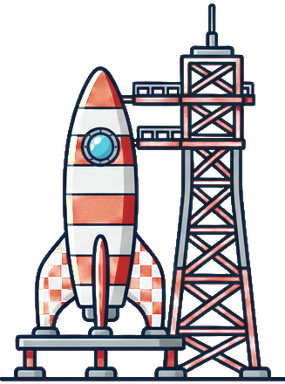
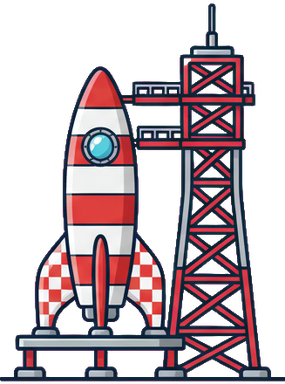
Nature round 2: willows, birches, acacias, baobabs, apple trees and five plants; a keyer that keeps colours
Two sheets made with the asset pipeline (jobs trees2, plants2): trees-5..9
(weeping willow, white birch, acacia, baobab, apple) and bushes-5..9
(sunflowers, cactus, reeds, mossy stump, fern). They join the biome lists:
acacias, baobabs, cacti and sunflowers turn the savanna into savanna,
birches fill the alpine and lakeland woods, apples and sunflowers the
meadows, ferns and stumps the undergrowth. Willows lean over the lakes and
reeds fringe lakes and rivers (their own random stream). The kerbside verge
keeps its five bushes (same picks as before), so no reeds or cacti by the curb.

key.py: only pixels that closely match the background become transparent
anywhere; softer matches fade only along its rim. The dusty-rose backgrounds
the model paints had been fading reds and browns inside the outlines (a teal
baobab, purple apples, a quarter-transparent autumn tree). Every sheet from
this pipeline is re-keyed: soft-edged pixels drop from up to 23% to under 1%.

Also: the 'no faces' rule, honest comments about random streams.

diff --git a/public/world.js b/public/world.js
@@ -28,7 +28,7 @@
  */
 
 // How many sprites each sheet was split into (see tools/ — assets are static).
-export const SPRITE_COUNTS = { clouds: 4, trees: 5, bushes: 5, props: 6, houses: 6, landmarks: 5, lots: 4, roofs: 4 };
+export const SPRITE_COUNTS = { clouds: 4, trees: 10, bushes: 10, props: 6, houses: 6, landmarks: 5, lots: 4, roofs: 4 };
 export const PROP = { LAMP: 0, BENCH: 1, HYDRANT: 2, MAILBOX: 3, CART: 4, BUS_STOP: 5 };
 export const LANDMARK = { BALLOON: 0, LIGHTHOUSE: 1, WINDMILL: 2, FERRIS: 3, ROCKET: 4 };
 // Attraction sites buildLand() reserves before the terrain: the ground each
@@ -55,8 +55,10 @@ export const LANDMARK_SITES = {
   recordShop: ['fair2', 'fair', 'bigFair'],
   robotMonument: ['wild', 'slopes'],
 };
-const TREE = { OAK: 0, POPLAR: 1, PINE: 2, ROUND: 3, CHERRY: 4 };
-const BUSH = { ROUND: 0, TULIPS: 1, LEAFY: 2, GRASS: 3, TOPIARY: 4 };
+const TREE = { OAK: 0, POPLAR: 1, PINE: 2, ROUND: 3, CHERRY: 4, WILLOW: 5, BIRCH: 6, ACACIA: 7, BAOBAB: 8, APPLE: 9 };
+const BUSH = { ROUND: 0, TULIPS: 1, LEAFY: 2, GRASS: 3, TOPIARY: 4, SUNFLOWERS: 5, CACTUS: 6, REEDS: 7, STUMP: 8, FERN: 9 };
+// The kerbside verge by the city block (willows and reeds grow by the water, below).
+const VERGE_BUSHES = [BUSH.ROUND, BUSH.TULIPS, BUSH.LEAFY, BUSH.GRASS, BUSH.TOPIARY];
 
 // Biomes: ground palette, relief, woods, water. Tree/bush lists are sprite
 // indices, repeated to weight the pick.
@@ -65,31 +67,35 @@ export const BIOMES = {
     label: 'Meadow isle',
     pal: { meadow: 0x8cda44, meadowLight: 0xacfa5d, forest: 0x5fb13c, highland: 0x7dbb62, rock: 0xb8ae9a, sand: 0xf1dfae, wetSand: 0xd6bd86 },
     relief: 15, mound: 1, forestT: 0.56, lakes: 1, river: true, beach: 1, shallow: 0x9af5e6, snow: 0,
-    trees: [TREE.OAK, TREE.ROUND, TREE.ROUND, TREE.POPLAR, TREE.CHERRY, TREE.PINE], bushes: [BUSH.ROUND, BUSH.TULIPS, BUSH.LEAFY, BUSH.GRASS],
+    trees: [TREE.OAK, TREE.ROUND, TREE.ROUND, TREE.POPLAR, TREE.CHERRY, TREE.PINE, TREE.APPLE, TREE.BIRCH],
+    bushes: [BUSH.ROUND, BUSH.TULIPS, BUSH.LEAFY, BUSH.GRASS, BUSH.SUNFLOWERS, BUSH.STUMP, BUSH.FERN],
   },
   alpine: {
     label: 'Alpine isle',
     pal: { meadow: 0x7fcf55, meadowLight: 0x9de36f, forest: 0x4c9a45, highland: 0x86a88a, rock: 0x7a7066, sand: 0xe6dcc0, wetSand: 0xc9bc98 },
     relief: 24, mound: 1.75, forestT: 0.5, lakes: 1, river: true, beach: 0.75, shallow: 0x8fe3ec, snow: 8.5,
-    trees: [TREE.PINE, TREE.PINE, TREE.PINE, TREE.PINE, TREE.POPLAR, TREE.ROUND], bushes: [BUSH.ROUND, BUSH.LEAFY, BUSH.GRASS],
+    trees: [TREE.PINE, TREE.PINE, TREE.PINE, TREE.PINE, TREE.POPLAR, TREE.ROUND, TREE.BIRCH, TREE.BIRCH],
+    bushes: [BUSH.ROUND, BUSH.LEAFY, BUSH.GRASS, BUSH.FERN, BUSH.FERN, BUSH.STUMP],
   },
   tropical: {
     label: 'Tropical isle',
     pal: { meadow: 0x96e04c, meadowLight: 0xb8f262, forest: 0x52b848, highland: 0x86cc5a, rock: 0xc9b89a, sand: 0xfbeac0, wetSand: 0xe9cf95 },
     relief: 8, mound: 0.65, forestT: 0.6, lakes: 1, river: false, beach: 1.9, shallow: 0x6ff5e0, snow: 0, palms: 80,
-    trees: [TREE.ROUND, TREE.ROUND, TREE.OAK, TREE.POPLAR, TREE.CHERRY, TREE.CHERRY], bushes: [BUSH.TULIPS, BUSH.TULIPS, BUSH.LEAFY, BUSH.ROUND],
+    trees: [TREE.ROUND, TREE.ROUND, TREE.OAK, TREE.POPLAR, TREE.CHERRY, TREE.CHERRY], bushes: [BUSH.TULIPS, BUSH.TULIPS, BUSH.LEAFY, BUSH.ROUND, BUSH.FERN, BUSH.FERN],
   },
   savanna: {
     label: 'Savanna isle',
     pal: { meadow: 0xd4c45a, meadowLight: 0xe8da7c, forest: 0xa3b24c, highland: 0xc9a46e, rock: 0xc99a6e, sand: 0xf3dba6, wetSand: 0xdcc088 },
     relief: 12, mound: 1.1, forestT: 0.68, lakes: 1, river: false, beach: 1.2, shallow: 0x9aeede, snow: 0,
-    trees: [TREE.OAK, TREE.OAK, TREE.OAK, TREE.POPLAR, TREE.ROUND], bushes: [BUSH.GRASS, BUSH.GRASS, BUSH.LEAFY, BUSH.ROUND],
+    trees: [TREE.ACACIA, TREE.ACACIA, TREE.ACACIA, TREE.BAOBAB, TREE.OAK, TREE.POPLAR, TREE.ROUND],
+    bushes: [BUSH.GRASS, BUSH.GRASS, BUSH.LEAFY, BUSH.ROUND, BUSH.CACTUS, BUSH.CACTUS, BUSH.SUNFLOWERS],
   },
   lakeland: {
     label: 'Lakeland isle',
     pal: { meadow: 0x7fd04a, meadowLight: 0x9be860, forest: 0x4f9e3a, highland: 0x78b466, rock: 0xafa898, sand: 0xeadcae, wetSand: 0xcdb888 },
     relief: 11, mound: 0.9, forestT: 0.5, lakes: 3, river: true, beach: 0.9, shallow: 0x94ecdf, snow: 0,
-    trees: [TREE.PINE, TREE.PINE, TREE.ROUND, TREE.OAK, TREE.POPLAR], bushes: [BUSH.ROUND, BUSH.LEAFY, BUSH.GRASS, BUSH.TULIPS],
+    trees: [TREE.PINE, TREE.PINE, TREE.ROUND, TREE.OAK, TREE.POPLAR, TREE.BIRCH, TREE.BIRCH],
+    bushes: [BUSH.ROUND, BUSH.LEAFY, BUSH.GRASS, BUSH.TULIPS, BUSH.FERN, BUSH.STUMP],
   },
 };
 const BIOME_BY_LANG = {
@@ -785,7 +791,7 @@ export function createWorld(THREE, scene, deps) {
 
     // Launch pad (landmarks-4): a rocket and gantry a little inland from the
     // coast, on the islands of developers with some following. It draws from
-    // its own random stream, so every other feature stays exactly where it was.
+    // its own random stream, so it doesn't shift the island's shared rnd() sequence.
     let PAD = null;
     if (T.fame >= PAD_FAME) {
       const pr = seededRandom((T.seed ^ 0x5eed) >>> 0);
@@ -1118,7 +1124,7 @@ export function createWorld(THREE, scene, deps) {
     };
     along(3.2, 54, (x, z, i) => {
       if (i % 5 === 0 || roadDist(x, z) < 1.2) return;
-      plant(`bushes-${Math.floor(rnd() * SPRITE_COUNTS.bushes)}`, 1.6 + rnd() * 1.2, x, z);
+      plant(pickOf('bushes', VERGE_BUSHES), 1.6 + rnd() * 1.2, x, z);
     });
     along(7.5, 40, (x, z) => { if (roadDist(x, z) > 2) plant(tree(), 5 + rnd() * 3.5, x, z); });
     // Street furniture on the sidewalk band just outside the boulevard.
@@ -1234,8 +1240,8 @@ export function createWorld(THREE, scene, deps) {
 
     // Scenery accents: a fountain by the fair, a little pier on the beach, and a
     // scatter of autumn trees, rock clusters and a bench in open ground. They draw
-    // from their own random stream (like the launch pad), so everything else on
-    // the island stays exactly where it was.
+    // from their own random stream (like the launch pad), so they don't shift the
+    // island's shared rnd() sequence.
     const ar = seededRandom((T.seed ^ 0xacce5) >>> 0);
     const accentFree = (x, z, r) => roadDist(x, z) > r && sdSlab(x, z) > r + 10
       && keepOut.every((k) => Math.hypot(x - k.x, z - k.z) > k.r) && heightAt(x, z) > -0.3 && slopeAt(x, z) < 0.2;
@@ -1286,6 +1292,34 @@ export function createWorld(THREE, scene, deps) {
       if (ar() < 0.5 || !accentFree(x, z, 3) || coastAt(x, z) <= 0.14) continue;
       plant(`props-${PROP.BENCH}`, 1.6, x, z);
       break;
+    }
+
+    // Water's edge: weeping willows lean over the lakes (not on tropical or savanna
+    // isles) and reeds fringe the lakes and rivers. Their own random stream too.
+    const wr = seededRandom((T.seed ^ 0x3a7e5) >>> 0);
+    const shore = (x, z) => { const h = heightAt(x, z); return h > -0.5 && h < 0.9 && sdSlab(x, z) > 12 && roadDist(x, z) > 2; };
+    const willows = T.biome === 'savanna' || T.biome === 'tropical' ? 0 : T.biome === 'lakeland' ? 3 : 2;
+    for (const l of lakes) {
+      for (let i = 0, n = 0; i < 24 && n < willows; i++) {
+        const a = wr() * TAU, d = l.r + 2.8 + wr() * 2.4, x = l.x + Math.cos(a) * d, z = l.z + Math.sin(a) * d;
+        if (!isFree(x, z, 2.5) || heightAt(x, z) > 2.5) continue;
+        plant(`trees-${TREE.WILLOW}`, 6 + wr() * 2.5, x, z);
+        keepOut.push({ x, z, r: 2.8 });
+        n++;
+      }
+      for (let i = 0, n = 0; i < 30 && n < 9; i++) {
+        const a = wr() * TAU, d = l.r + 0.4 + wr() * 1.4, x = l.x + Math.cos(a) * d, z = l.z + Math.sin(a) * d;
+        if (!shore(x, z)) continue;
+        plant(`bushes-${BUSH.REEDS}`, 1.5 + wr() * 0.7, x, z, undefined, false);
+        n++;
+      }
+    }
+    for (const r of rivers) {
+      for (let i = 2; i < r.length - 1; i += 3) {
+        const p = r[i], q = r[i + 1], dx = q.x - p.x, dz = q.z - p.z, L = Math.hypot(dx, dz) || 1, s = wr() < 0.5 ? -1 : 1;
+        const off = RIVER_W / 2 + 0.6 + wr() * 0.8, x = p.x - (dz / L) * off * s, z = p.z + (dx / L) * off * s;
+        if (wr() < 0.55 && shore(x, z)) plant(`bushes-${BUSH.REEDS}`, 1.4 + wr() * 0.6, x, z, undefined, false);
+      }
     }
 
     const highRocks = [];

diff --git a/scripts/assets/generate.py b/scripts/assets/generate.py
@@ -51,6 +51,10 @@ JOBS = {
     'landmarks': ('16:9', f'Sprite sheet of 4 different cartoon landmark objects in a single row, side view, evenly spaced with clear gaps: a hot air balloon, a small lighthouse, a windmill, a ferris wheel, {STYLE}, {MAG}'),
     # landmarks-4 (the launch pad) is the first sprite of this sheet.
     'rockets': ('16:9', f'Sprite sheet of 3 different cartoon rocket landmark objects in a single row, side view, evenly spaced with clear gaps: a retro red-and-white rocket on a small launch pad with a lattice gantry tower, a chunky teal rocket with round portholes standing on three fins on a concrete pad, a tall slim silver rocket with an orange nose cone beside a small launch tower, {STYLE}, {MAG}'),
+    # Nature, round 2 (trees-5 .. trees-9 = TREE.WILLOW, BIRCH, ACACIA, BAOBAB, APPLE in world.js):
+    'trees2': ('16:9', f'Sprite sheet of 5 different cartoon trees in a single row, side view, evenly spaced with clear gaps: a weeping willow with long drooping green branches, a white birch tree with a slim white trunk marked with black streaks and light green leaves, a flat-topped acacia umbrella tree with a dark brown trunk, a fat baobab tree with a thick grey-brown bottle-shaped trunk and a small green crown, an apple tree with a round green canopy dotted with red apples, foliage with darker green shadow blobs, no ground shadows, {STYLE}, {MAG}'),
+    # ...and bushes-5 .. bushes-9 = BUSH.SUNFLOWERS, CACTUS, REEDS, STUMP, FERN:
+    'plants2': ('16:9', f'Sprite sheet of 5 different small cartoon plants in a single row, side view, evenly spaced with clear gaps: a clump of three tall sunflowers, a round green cactus with a few yellow flowers, a tuft of tall green reeds with brown cattails, a mossy tree stump with small brown mushrooms, a lush green fern, plain plants with no faces, eyes or smiles, no ground shadows, {STYLE}, {MAG}'),
     # Scenery accents, in this order: props-fountain, props-dock, scenery-autumn-tree, scenery-rock-cluster
     # (key.py row ... --names props-fountain props-dock scenery-autumn-tree scenery-rock-cluster).
     # Street furniture already exists in the props sheet (lamp, bench, hydrant, mailbox): reuse it.

diff --git a/scripts/assets/key.py b/scripts/assets/key.py
@@ -25,22 +25,31 @@ import argparse
 from pathlib import Path
 
 import numpy as np
-from PIL import Image
+from PIL import Image, ImageFilter
 
 OUT = Path(__file__).resolve().parents[2] / 'public' / 'assets'
 
 
-def key(im, thresh=70, soft=40, frame=3):
+def key(im, thresh=70, soft=40, frame=3, tight=45):
     """Magenta -> alpha. Models never paint exactly #FF00FF, so the background
-    colour is the median of the image border; soft edge pixels are un-mixed
-    from it (despill) so no pink fringe survives. `frame` px along the image
-    edge are forced transparent: models sometimes paint a hairline there, and
-    one opaque pixel per column is enough to glue a whole row of sprites together."""
+    colour is the median of the image border.
+    - Pixels closer than `tight` to it are background anywhere (holes too).
+    - Softer matches only fade within 2 px of that background: the anti-aliased
+      rim. Colours inside the ink outlines that merely resemble the background
+      (a red apple, a brown trunk) stay opaque and keep their colour; the
+      background often comes back a dusty rose, uncomfortably close to them.
+    - Rim pixels are un-mixed from the background (despill), so no pink fringe survives.
+    - `frame` px along the image edge are forced transparent: models sometimes
+      paint a hairline there, and one opaque pixel per column is enough to glue
+      a whole row of sprites together."""
     a = np.asarray(im.convert('RGB')).astype(np.float32)
     border = np.concatenate([a[0], a[-1], a[:, 0], a[:, -1]])
     bg = np.median(border, axis=0)
     d = np.sqrt(((a - bg) ** 2).sum(-1))
     alpha = np.clip((d - thresh) / soft, 0, 1)
+    sure_bg = d < tight
+    rim = np.asarray(Image.fromarray((sure_bg * 255).astype(np.uint8)).filter(ImageFilter.MaxFilter(5))) > 0
+    alpha = np.where(sure_bg, 0.0, np.where(rim, alpha, 1.0))
     if frame:
         alpha[:frame], alpha[-frame:], alpha[:, :frame], alpha[:, -frame:] = 0, 0, 0, 0
     al = alpha[..., None]

diff --git a/docs/assets.md b/docs/assets.md
@@ -37,6 +37,7 @@ These come from real mistakes. Read them before generating anything.
    - All four share a style, and `key.py` splits them.
 6. **Reuse before you generate.** The `props` sheet already has a lamp post, a bench, a fire hydrant, a mailbox, a food cart and a bus stop (`PROP` in `world.js`). A second hydrant in a different style makes the island look patched together.
 7. **Only `generate.py` → `key.py`.** Don't process images with other scripts or tools; every committed PNG should be reproducible from a `JOBS` entry.
+8. **Say "no faces".** Ask for cute plants and the model gives them eyes and smiles (the first sunflowers, cactus and stump all had them). Add "plain plants with no faces, eyes or smiles".
 
 ## Adding to the set regularly
 
@@ -53,7 +54,11 @@ The set grows a batch at a time: street furniture, vegetation, waterfront props 
 3. Open the preview. Then place the sprites in `public/world.js`. The *Scenery accents* block shows the pattern: `plant(name, height, x, z)` with the `coastAt` / `roadDist` / `slopeAt` / `isFree` helpers and its own random stream.
 4. Check them in the browser by day and by night, run `node --test tests/`, and open a PR.
 
-The scenery-accents batch (`props-fountain`, `props-dock`, `scenery-autumn-tree`, `scenery-rock-cluster`: job `scenery_accents`) was made this way.
+The scenery-accents batch (`props-fountain`, `props-dock`, `scenery-autumn-tree`, `scenery-rock-cluster`: job `scenery_accents`) was made this way, and so was the second nature round:
+- **`trees2` → `trees-5` … `trees-9`:** weeping willow, white birch, acacia, baobab, apple.
+- **`plants2` → `bushes-5` … `bushes-9`:** sunflowers, cactus, reeds, mossy stump, fern.
+
+Most of them join the biome lists in `BIOMES`: acacias, baobabs and cacti make the savanna, birches the alpine and lakeland woods. Willows and reeds are placed along the lakes and rivers instead.
 
 ## 1. Setup
 
@@ -128,7 +133,10 @@ python3 scripts/assets/key.py row  scripts/assets/raw/scenery_accents.png --name
 
 `--names` gives each sprite of a row its own file name, in order from left to right.
 
-- **Chroma key.** The model never paints exactly `#FF00FF` (the rocket sheet came back as `rgb(224, 78, 152)`), so the background colour is sampled from the image border. Pixels near it become transparent, and edge pixels are un-mixed from it, so no pink fringe survives.
+- **Chroma key.** The model never paints exactly `#FF00FF`: sheets come back anywhere from `rgb(224, 78, 152)` to a dusty rose `rgb(211, 71, 138)`, so the background colour is sampled from the image border.
+  - Pixels that closely match it become transparent anywhere, holes included.
+  - Softer matches only fade along the rim of that background, and rim pixels are un-mixed from it, so no pink fringe survives.
+  - Everything inside the ink outlines stays solid, so reds and browns that resemble the rose keep their colour. (An earlier version faded them too: the baobab came out teal, the apples purple, and a quarter of the autumn tree was see-through.)
 - **Splitting.** Sheets are split on empty columns. Sprites are trimmed, scaled to `--max-side` (384 px; clouds use 512) and written as `<name>-<start + i>.png`.
 - **Specks.** Sprites smaller than `--min-px` are dropped. The first run of the original sheets produced a 16×12 speck.
 - **Edge hairline.** A 3 px frame at the image edge is ignored. The rocket sheet had a one-pixel hairline along its top edge, and that alone glued all three rockets into one sprite.
